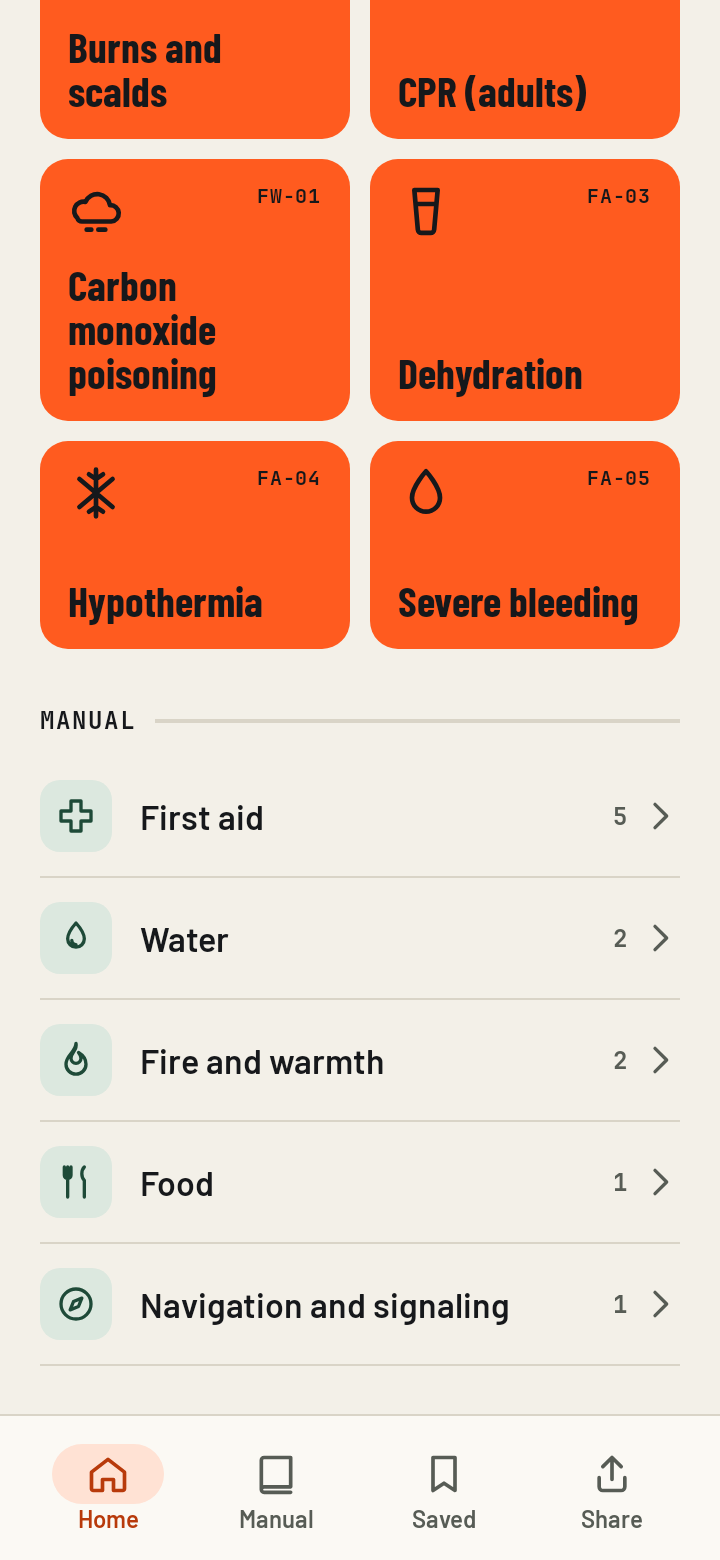
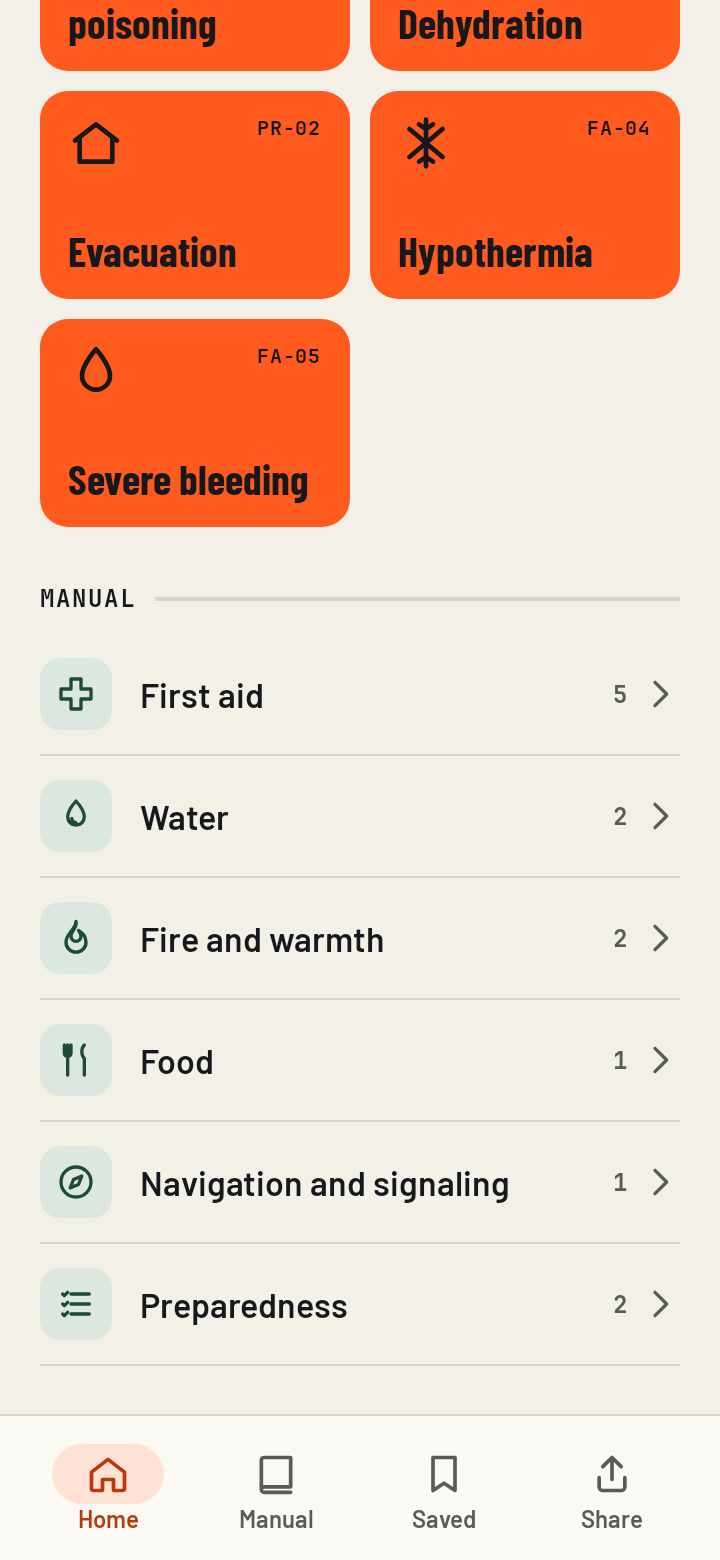
Fix screen test: scroll to the Saved section on Home
The evacuation article is high-risk, so it adds a seventh Emergency tile.
That pushes Saved below the screen, where the lazy list hasn't built it
yet, and the test timed out waiting for it. Scroll to it instead.
Screenshots updated for the new tiles and category.

Claude-Session: https://claude.ai/code/session_01Jb7VzuWtb7rsGemBPkMZUa

diff --git a/android/app/src/test/kotlin/app/fallbackmanual/AppScreensTest.kt b/android/app/src/test/kotlin/app/fallbackmanual/AppScreensTest.kt
@@ -136,7 +136,10 @@ class AppScreensTest {
         rule.onNodeWithContentDescription("Save article").performClick()
         rule.onNodeWithContentDescription("Remove from saved").assertExists()
         rule.onNodeWithContentDescription("Back").performClick()
-        waitFor("SAVED") // the Saved section on Home
+        waitFor("EMERGENCY")
+        // The Saved section sits below the Emergency tiles, which can fill the screen: scroll to it.
+        rule.onNode(hasScrollAction()).performScrollToNode(hasText("SAVED"))
+        rule.onNodeWithText("SAVED").assertExists()
     }
 
     private fun openCarbonMonoxideAndTapCprLink() {
